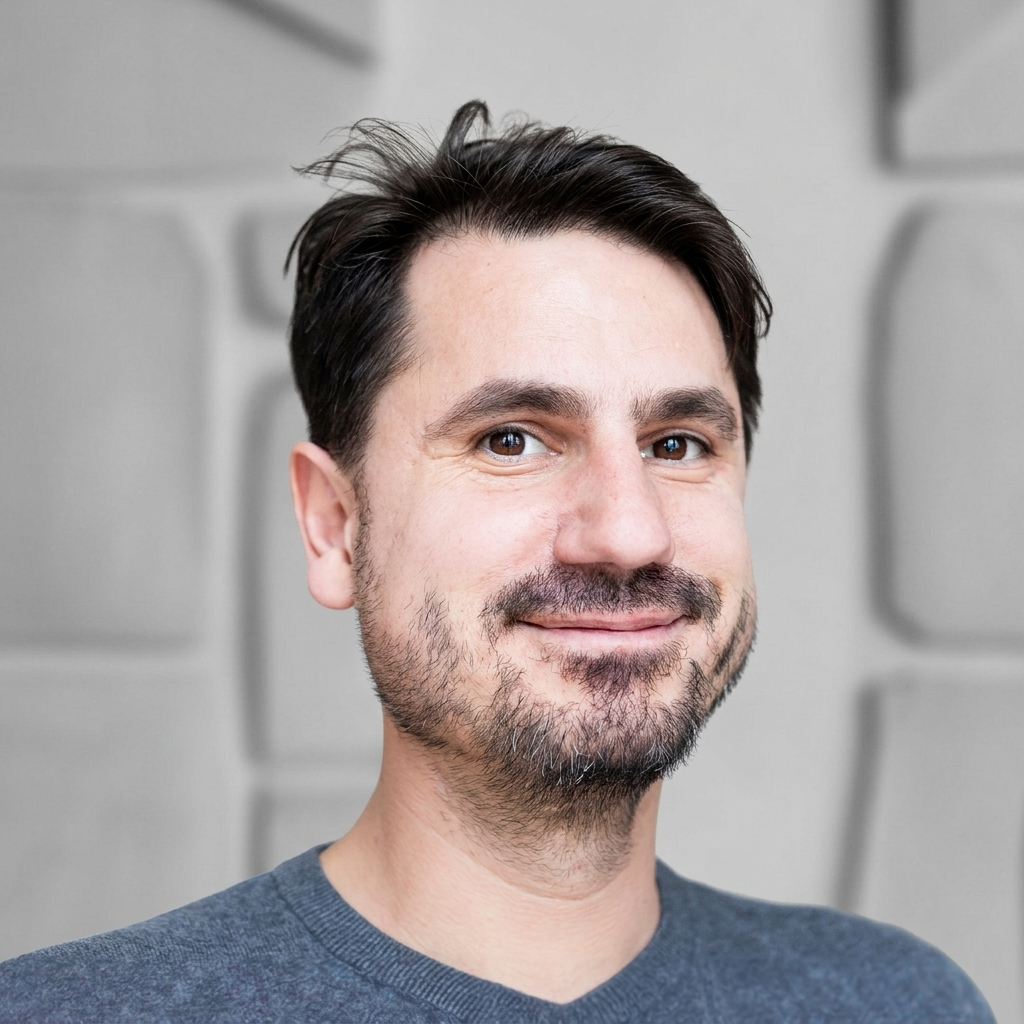
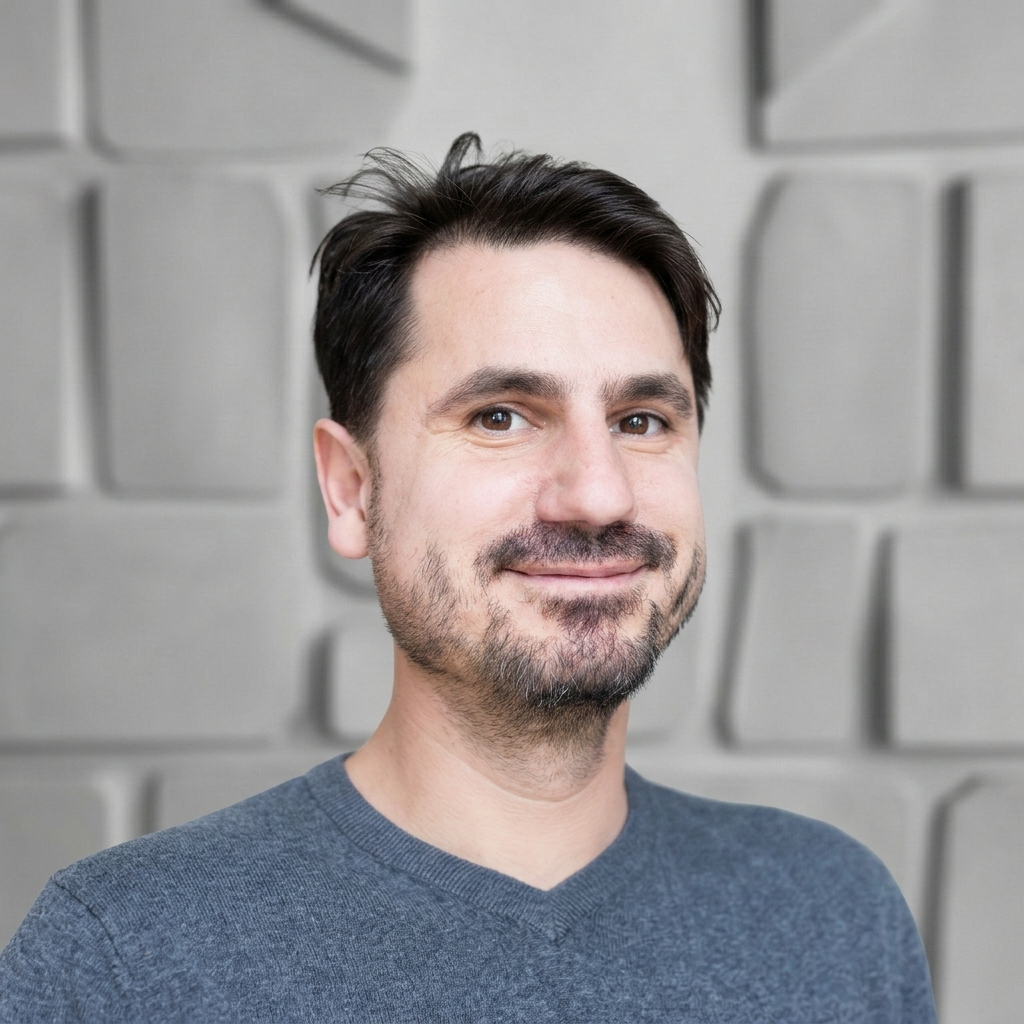
Update team member profile images and styles for Simon Plangg, Simon Hirländer, and Markus Dygruber

diff --git a/index.html b/index.html
@@ -352,7 +352,8 @@
         </div>
 
         <div class="wp-card reveal" style="border-top: 4px solid var(--teal);">
-          <div class="wp-icon"><i data-lucide="user" style="width:24px;height:24px;"></i></div>
+          <img src="assets/img/simon_plangg.png" alt="Simon Plangg"
+            style="width:90px;height:90px;border-radius:50%;object-fit:cover;margin:0 auto 12px;display:block;box-shadow:var(--shadow-sm);">
           <h3>HS-Prof. Dr. Simon Plangg</h3>
           <p style="color:var(--teal-dark);font-weight:600;font-size:.88rem;margin-bottom:8px;">Projektleitung · PHS</p>
           <p>Teamleitung Fachdidaktik (Mathematik)</p>
@@ -403,8 +404,11 @@
 
       <div class="team-grid" style="grid-template-columns: repeat(auto-fit, minmax(280px, 1fr)); gap: 24px;">
         <div class="wp-card reveal" style="border-top: 4px solid var(--navy);">
-          <img src="assets/img/simon_new.png" alt="Simon Hirländer"
-            style="width:90px;height:90px;border-radius:50%;object-fit:cover;margin:0 auto 12px;display:block;box-shadow:var(--shadow-sm);">
+          <div
+            style="width:90px;height:90px;border-radius:50%;margin:0 auto 12px;overflow:hidden;box-shadow:var(--shadow-sm);">
+            <img src="assets/img/simon_new.png" alt="Simon Hirländer"
+              style="width:100%;height:100%;object-fit:cover;object-position:45% 10%;transform:scale(1.2);">
+          </div>
           <h3>Dipl.-Ing. Dr. Simon Hirländer, BSc</h3>
           <p style="color:var(--teal-dark);font-weight:600;font-size:.88rem;margin-bottom:8px;">Projektleitung · IDA Lab
           </p>
@@ -415,7 +419,7 @@
           <div
             style="width:90px;height:90px;border-radius:50%;margin:0 auto 12px;overflow:hidden;box-shadow:var(--shadow-sm);">
             <img src="assets/img/olga_new.png" alt="Olga Mironova"
-              style="width:100%;height:100%;object-fit:cover;object-position:50% 15%;transform:scale(1.4);">
+              style="width:100%;height:100%;object-fit:cover;object-position:40% 10%;transform:scale(1.4);">
           </div>
           <h3>Olga Mironova, BSc MSc</h3>
           <p style="color:var(--teal-dark);font-weight:600;font-size:.88rem;margin-bottom:8px;">IDA Lab</p>
@@ -423,8 +427,11 @@
         </div>
 
         <div class="wp-card reveal" style="border-top: 4px solid var(--navy);">
-          <img src="assets/img/Markus.jpg" alt="Markus Dygruber"
-            style="width:90px;height:90px;border-radius:50%;object-fit:cover;margin:0 auto 12px;display:block;box-shadow:var(--shadow-sm);">
+          <div
+            style="width:90px;height:90px;border-radius:50%;margin:0 auto 12px;overflow:hidden;box-shadow:var(--shadow-sm);">
+            <img src="assets/img/Markus.jpg" alt="Markus Dygruber"
+              style="width:100%;height:100%;object-fit:cover;object-position:45% 10%;transform:scale(1.0);">
+          </div>
           <h3>Markus Dygruber, BSc MEd</h3>
           <p style="color:var(--teal-dark);font-weight:600;font-size:.88rem;margin-bottom:8px;">IDA Lab</p>
           <p>Wissenschaftlicher Mitarbeiter im Smart Analytics &amp; Reinforcement Learning Team (Dissertant)</p>
@@ -754,7 +761,3 @@
       });
     });
   </script>
-
-</body>
-
-</html>